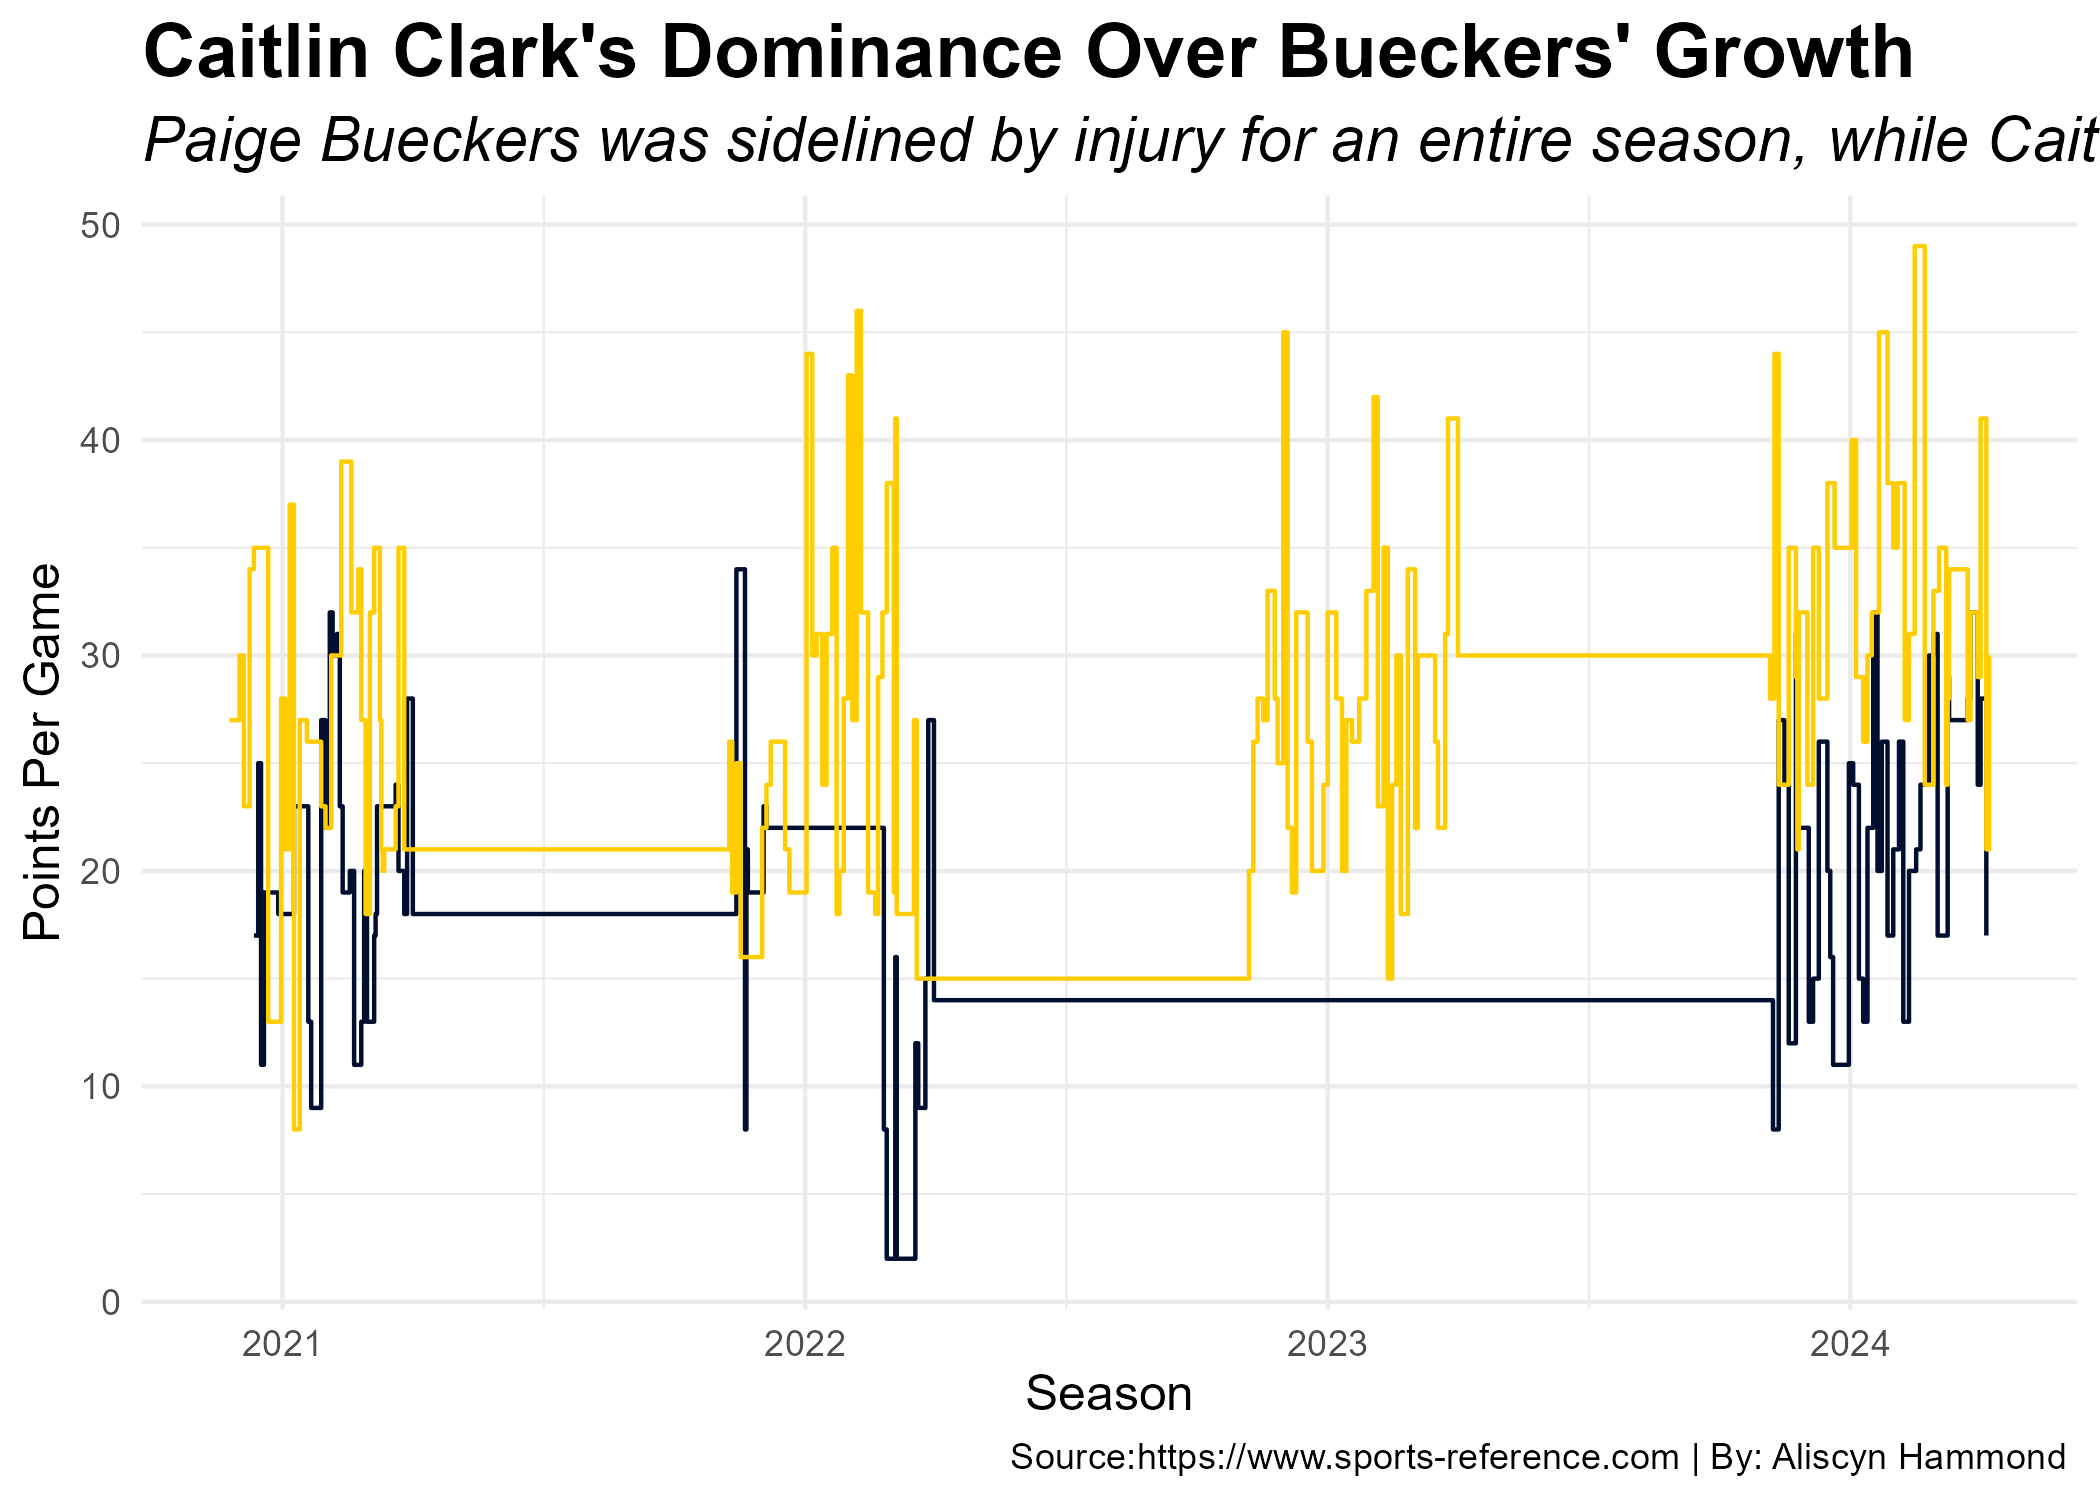
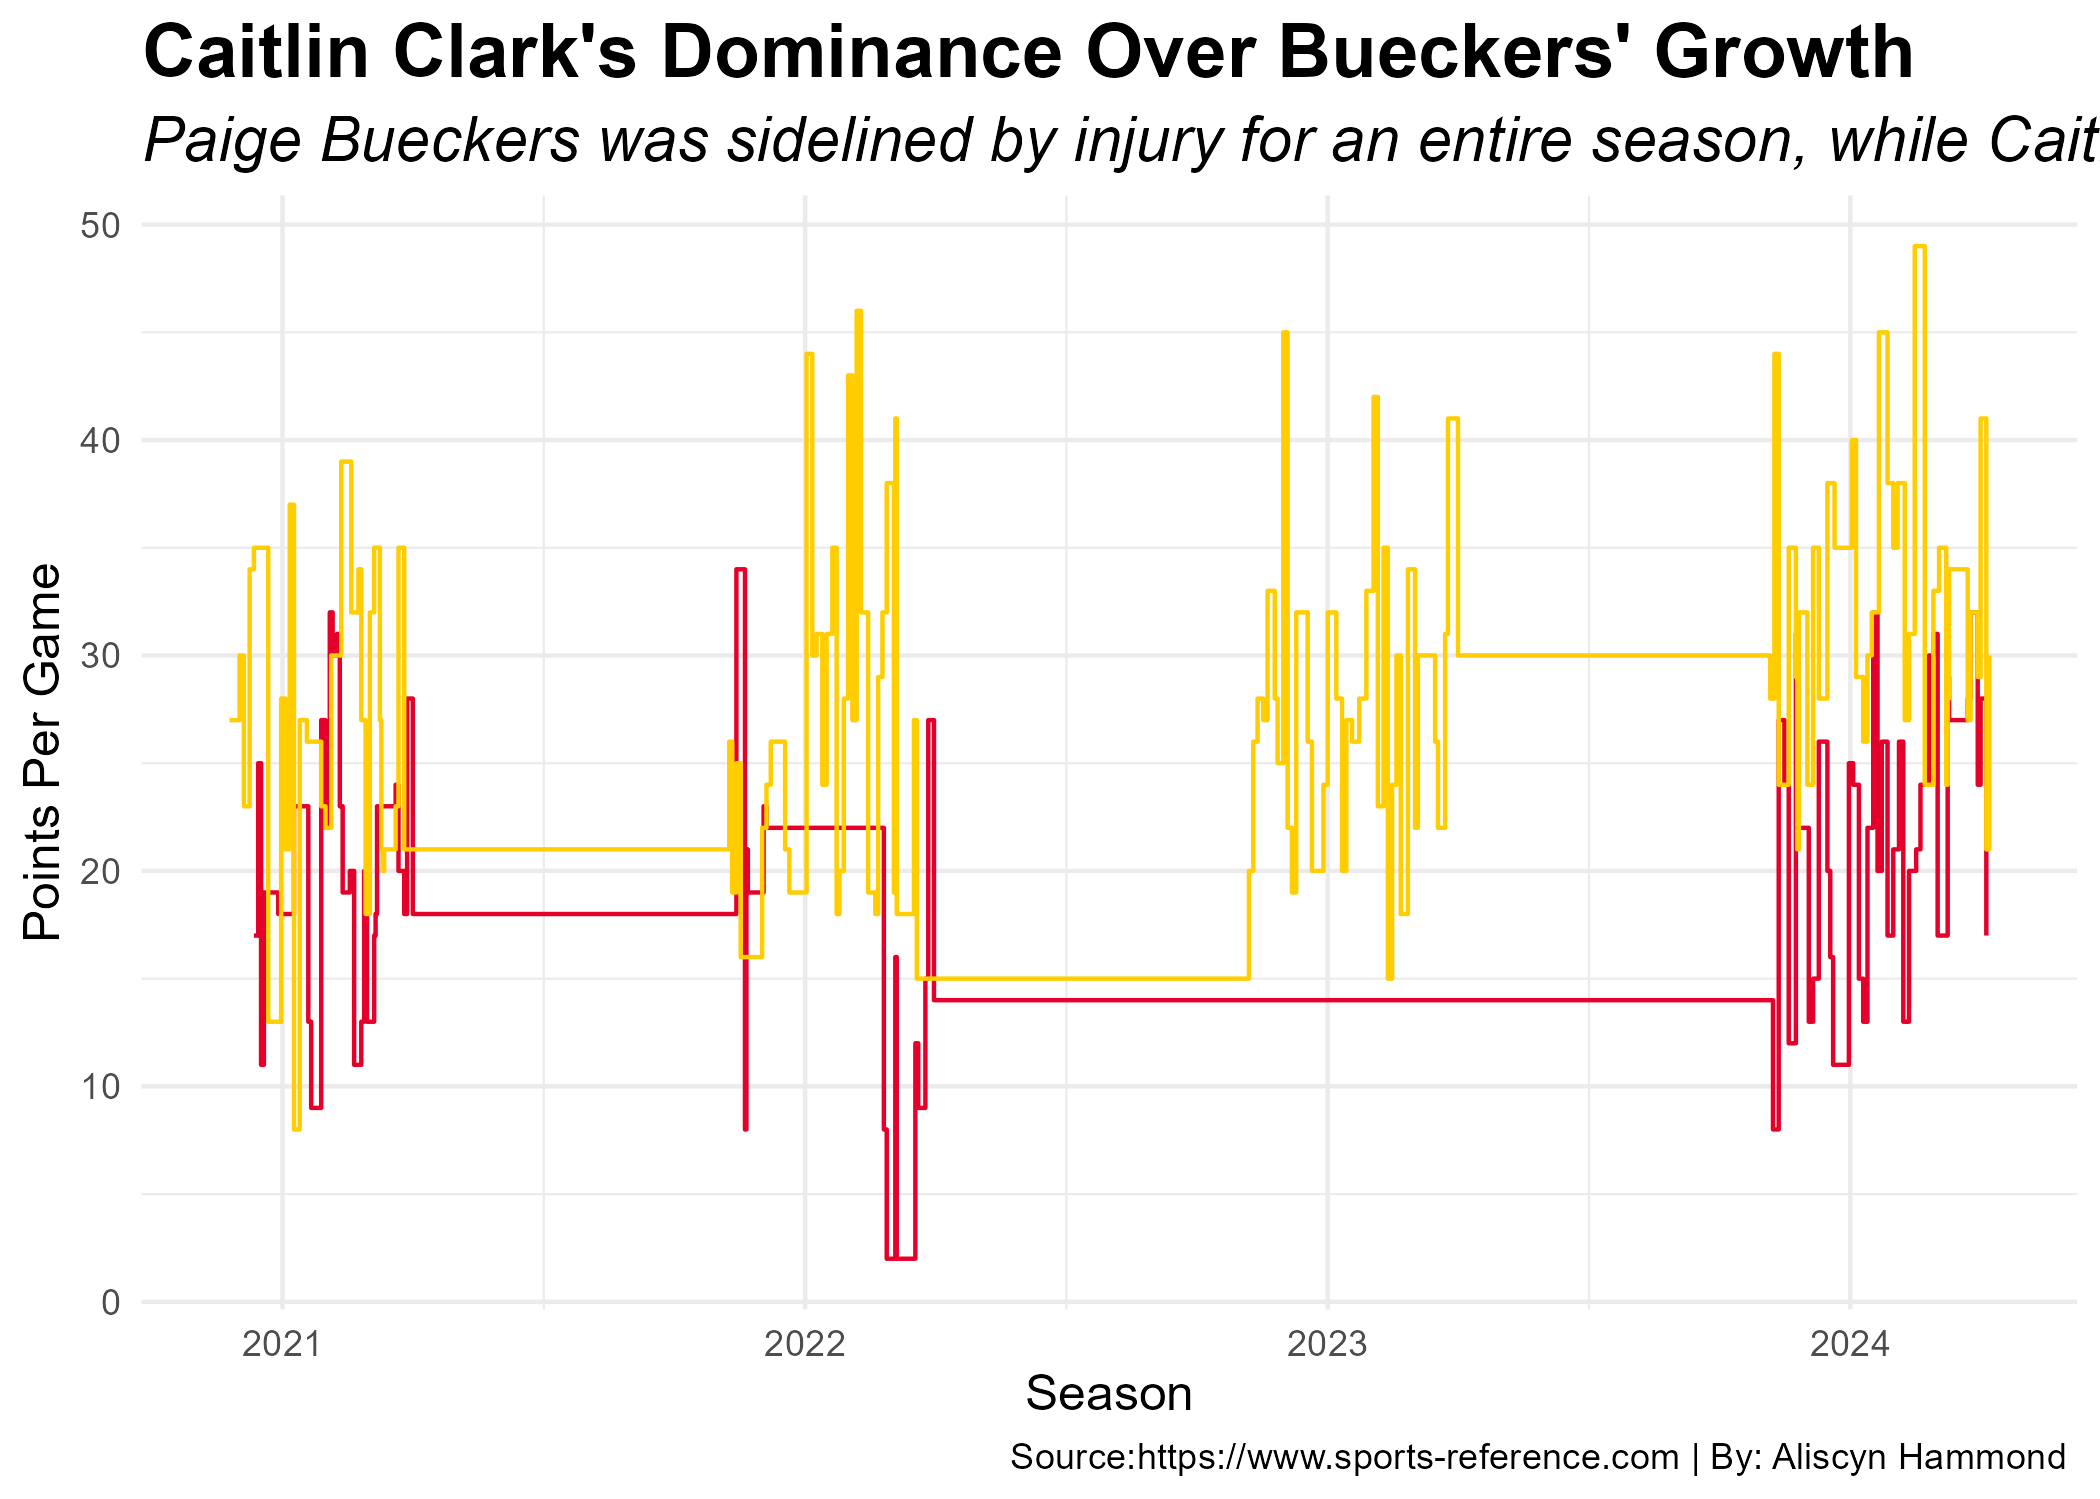
rough draft of second chart

Changed region(s): [[0.4024, 0.4296, 0.9595, 0.8286], [0.1238, 0.3682, 0.3714, 0.7365], [0.3405, 0.6444, 0.3714, 0.7365]]

diff --git a/posts/paige_caitlin_basketball/index.html b/posts/paige_caitlin_basketball/index.html
@@ -214,7 +214,7 @@ pre > code.sourceCode > span > a:first-child::before { text-decoration: underlin
 <span id="cb1-10"><a href="#cb1-10" aria-hidden="true" tabindex="-1"></a>cc<span class="sc">$</span>Date <span class="ot">&lt;-</span> <span class="fu">as.Date</span>(cc<span class="sc">$</span>Date, <span class="at">format =</span> <span class="st">"%Y-%m-%d"</span>)</span>
 <span id="cb1-11"><a href="#cb1-11" aria-hidden="true" tabindex="-1"></a></span>
 <span id="cb1-12"><a href="#cb1-12" aria-hidden="true" tabindex="-1"></a><span class="fu">ggplot</span>() <span class="sc">+</span></span>
-<span id="cb1-13"><a href="#cb1-13" aria-hidden="true" tabindex="-1"></a>  <span class="fu">geom_step</span>(<span class="at">data =</span> pb, <span class="fu">aes</span>(<span class="at">x =</span> Date, <span class="at">y =</span> PTS, <span class="at">group =</span> Player), <span class="at">color =</span> <span class="st">"#000e2f"</span>) <span class="sc">+</span> </span>
+<span id="cb1-13"><a href="#cb1-13" aria-hidden="true" tabindex="-1"></a>  <span class="fu">geom_step</span>(<span class="at">data =</span> pb, <span class="fu">aes</span>(<span class="at">x =</span> Date, <span class="at">y =</span> PTS, <span class="at">group =</span> Player), <span class="at">color =</span> <span class="st">"#e4002b"</span>) <span class="sc">+</span> </span>
 <span id="cb1-14"><a href="#cb1-14" aria-hidden="true" tabindex="-1"></a>  <span class="fu">geom_step</span>(<span class="at">data =</span> cc, <span class="fu">aes</span>(<span class="at">x =</span> Date, <span class="at">y =</span> PTS, <span class="at">group =</span> Player), <span class="at">color =</span> <span class="st">"#FFCD00"</span>) <span class="sc">+</span> </span>
 <span id="cb1-15"><a href="#cb1-15" aria-hidden="true" tabindex="-1"></a>  <span class="fu">labs</span>(</span>
 <span id="cb1-16"><a href="#cb1-16" aria-hidden="true" tabindex="-1"></a>    <span class="at">x =</span> <span class="st">"Season"</span>,</span>
@@ -243,6 +243,50 @@ pre > code.sourceCode > span > a:first-child::before { text-decoration: underlin
 </section>
 <section id="total-contribution" class="level2">
 <h2 class="anchored" data-anchor-id="total-contribution">Total Contribution</h2>
+<div class="cell">
+<details class="code-fold">
+<summary>Code</summary>
+<div class="sourceCode cell-code" id="cb2"><pre class="sourceCode r code-with-copy"><code class="sourceCode r"><span id="cb2-1"><a href="#cb2-1" aria-hidden="true" tabindex="-1"></a>pc_long <span class="ot">&lt;-</span> pc <span class="sc">%&gt;%</span></span>
+<span id="cb2-2"><a href="#cb2-2" aria-hidden="true" tabindex="-1"></a>  <span class="fu">gather</span>(<span class="at">key=</span> <span class="st">"Stat"</span>,<span class="at">value=</span><span class="st">"Value"</span>,PTS,AST,TRB,STL)</span>
+<span id="cb2-3"><a href="#cb2-3" aria-hidden="true" tabindex="-1"></a></span>
+<span id="cb2-4"><a href="#cb2-4" aria-hidden="true" tabindex="-1"></a><span class="fu">ggplot</span>(pc_long,<span class="fu">aes</span>(<span class="at">x=</span>Season,<span class="at">y=</span>Value,<span class="at">fill=</span>Stat))<span class="sc">+</span></span>
+<span id="cb2-5"><a href="#cb2-5" aria-hidden="true" tabindex="-1"></a>  <span class="fu">geom_bar</span>(<span class="at">stat=</span><span class="st">"identity"</span>,<span class="at">position=</span><span class="st">"stack"</span>)<span class="sc">+</span></span>
+<span id="cb2-6"><a href="#cb2-6" aria-hidden="true" tabindex="-1"></a>  <span class="fu">facet_wrap</span>(<span class="sc">~</span>Player)<span class="sc">+</span></span>
+<span id="cb2-7"><a href="#cb2-7" aria-hidden="true" tabindex="-1"></a>  <span class="fu">labs</span>(</span>
+<span id="cb2-8"><a href="#cb2-8" aria-hidden="true" tabindex="-1"></a>    <span class="at">title=</span><span class="st">"Clark Leads in Every Stat, Bueckers' Comeback Across the Board"</span>,</span>
+<span id="cb2-9"><a href="#cb2-9" aria-hidden="true" tabindex="-1"></a>    <span class="at">subtitle=</span><span class="st">"Clark dominated stats while Bueckers bounced back after a season off."</span>,</span>
+<span id="cb2-10"><a href="#cb2-10" aria-hidden="true" tabindex="-1"></a>    <span class="at">x=</span><span class="st">"Season"</span>,</span>
+<span id="cb2-11"><a href="#cb2-11" aria-hidden="true" tabindex="-1"></a>    <span class="at">y=</span><span class="st">"Total Performance"</span>,</span>
+<span id="cb2-12"><a href="#cb2-12" aria-hidden="true" tabindex="-1"></a>    <span class="at">fill=</span><span class="st">"Stat Category"</span></span>
+<span id="cb2-13"><a href="#cb2-13" aria-hidden="true" tabindex="-1"></a>  )<span class="sc">+</span></span>
+<span id="cb2-14"><a href="#cb2-14" aria-hidden="true" tabindex="-1"></a>  <span class="fu">scale_fill_manual</span>(<span class="at">values =</span> <span class="fu">c</span>(<span class="st">"PTS"</span> <span class="ot">=</span> <span class="st">"#7C878E"</span>,</span>
+<span id="cb2-15"><a href="#cb2-15" aria-hidden="true" tabindex="-1"></a>                                <span class="st">"AST"</span> <span class="ot">=</span> <span class="st">"#000e2f"</span>,</span>
+<span id="cb2-16"><a href="#cb2-16" aria-hidden="true" tabindex="-1"></a>                               <span class="st">"TRB"</span> <span class="ot">=</span> <span class="st">"#e4002b"</span>,</span>
+<span id="cb2-17"><a href="#cb2-17" aria-hidden="true" tabindex="-1"></a>                               <span class="st">"STL"</span> <span class="ot">=</span> <span class="st">"#FFCD00"</span>),</span>
+<span id="cb2-18"><a href="#cb2-18" aria-hidden="true" tabindex="-1"></a>                     <span class="at">labels =</span> <span class="fu">c</span>(<span class="st">"Points"</span> ,</span>
+<span id="cb2-19"><a href="#cb2-19" aria-hidden="true" tabindex="-1"></a>                                <span class="st">"Assists"</span>,</span>
+<span id="cb2-20"><a href="#cb2-20" aria-hidden="true" tabindex="-1"></a>                                <span class="st">"Total Rebounds"</span>,</span>
+<span id="cb2-21"><a href="#cb2-21" aria-hidden="true" tabindex="-1"></a>                                <span class="st">"Steals"</span>)) <span class="sc">+</span></span>
+<span id="cb2-22"><a href="#cb2-22" aria-hidden="true" tabindex="-1"></a>  <span class="fu">theme_minimal</span>()<span class="sc">+</span></span>
+<span id="cb2-23"><a href="#cb2-23" aria-hidden="true" tabindex="-1"></a>  <span class="fu">theme</span>(<span class="at">axis.text.x =</span><span class="fu">element_text</span>(<span class="at">angle=</span><span class="dv">45</span>,<span class="at">hjust=</span><span class="dv">1</span>),</span>
+<span id="cb2-24"><a href="#cb2-24" aria-hidden="true" tabindex="-1"></a>        <span class="at">plot.title =</span><span class="fu">element_text</span>(<span class="at">size=</span><span class="dv">18</span>,<span class="at">face=</span><span class="st">"bold"</span>),</span>
+<span id="cb2-25"><a href="#cb2-25" aria-hidden="true" tabindex="-1"></a>        <span class="at">plot.subtitle =</span><span class="fu">element_text</span>(<span class="at">size=</span><span class="dv">16</span>,<span class="at">face=</span><span class="st">"italic"</span>),</span>
+<span id="cb2-26"><a href="#cb2-26" aria-hidden="true" tabindex="-1"></a>        <span class="at">axis.title.x =</span><span class="fu">element_text</span>(<span class="at">size=</span><span class="dv">14</span>,<span class="at">face=</span><span class="st">"bold"</span>),</span>
+<span id="cb2-27"><a href="#cb2-27" aria-hidden="true" tabindex="-1"></a>        <span class="at">axis.title.y =</span><span class="fu">element_text</span>(<span class="at">size=</span><span class="dv">14</span>,<span class="at">face=</span><span class="st">"bold"</span>),</span>
+<span id="cb2-28"><a href="#cb2-28" aria-hidden="true" tabindex="-1"></a>        <span class="at">axis.text =</span><span class="fu">element_text</span>(<span class="at">size=</span><span class="dv">12</span>),</span>
+<span id="cb2-29"><a href="#cb2-29" aria-hidden="true" tabindex="-1"></a>        <span class="at">legend.text =</span><span class="fu">element_text</span>(<span class="at">size=</span><span class="dv">11</span>),</span>
+<span id="cb2-30"><a href="#cb2-30" aria-hidden="true" tabindex="-1"></a>        <span class="at">legend.title =</span><span class="fu">element_text</span>(<span class="at">size=</span><span class="dv">14</span>,<span class="at">face=</span><span class="st">"bold"</span>),</span>
+<span id="cb2-31"><a href="#cb2-31" aria-hidden="true" tabindex="-1"></a>        <span class="at">strip.text=</span><span class="fu">element_text</span>(<span class="at">size=</span><span class="dv">14</span>,<span class="at">face=</span><span class="st">"italic"</span>)</span>
+<span id="cb2-32"><a href="#cb2-32" aria-hidden="true" tabindex="-1"></a>  )</span></code><button title="Copy to Clipboard" class="code-copy-button"><i class="bi"></i></button></pre></div>
+</details>
+<div class="cell-output-display">
+<div>
+<figure class="figure">
+<p><img src="index_files/figure-html/unnamed-chunk-3-1.png" class="img-fluid figure-img" width="672"></p>
+</figure>
+</div>
+</div>
+</div>
 <p>##Contribution of (blank)</p>
 
 

diff --git a/index.html b/index.html
@@ -210,7 +210,7 @@ window.Quarto = {
 
 <div class="quarto-listing quarto-listing-container-default" id="listing-listing">
 <div class="list quarto-listing-default">
-<div class="quarto-post image-right" data-index="0" data-categories="YmFza2V0YmFsbCx3b21lbiBzcG9ydHMsY29sbGVnZSBzcG9ydHM=" data-listing-date-sort="1733724000000" data-listing-file-modified-sort="1733540006982" data-listing-date-modified-sort="NaN" data-listing-reading-time-sort="2" data-listing-word-count-sort="306">
+<div class="quarto-post image-right" data-index="0" data-categories="YmFza2V0YmFsbCx3b21lbiBzcG9ydHMsY29sbGVnZSBzcG9ydHM=" data-listing-date-sort="1733724000000" data-listing-file-modified-sort="1733544481062" data-listing-date-modified-sort="NaN" data-listing-reading-time-sort="4" data-listing-word-count-sort="667">
 <div class="thumbnail">
 <p><a href="./posts/paige_caitlin_basketball/index.html" class="no-external"></a></p><a href="./posts/paige_caitlin_basketball/index.html" class="no-external">
 <p><img loading="lazy" src="./posts/paige_caitlin_basketball/image.png" class="thumbnail-image"></p>
